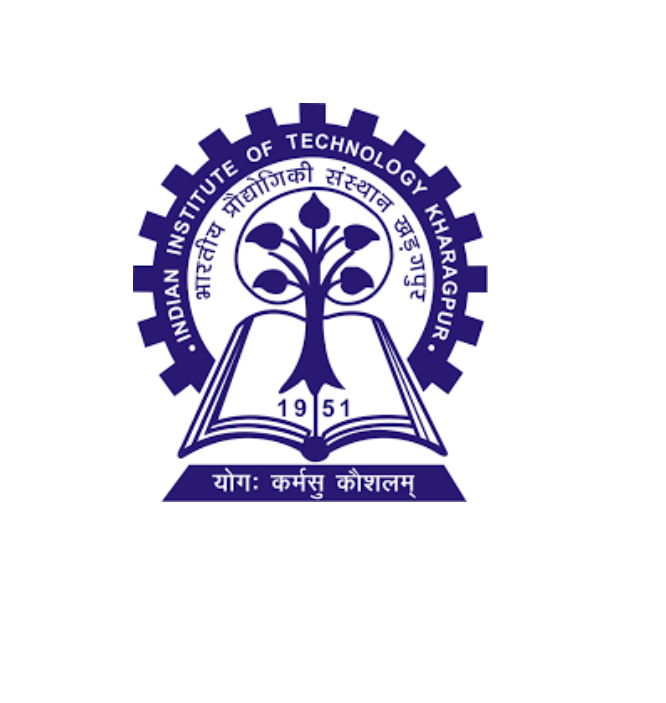
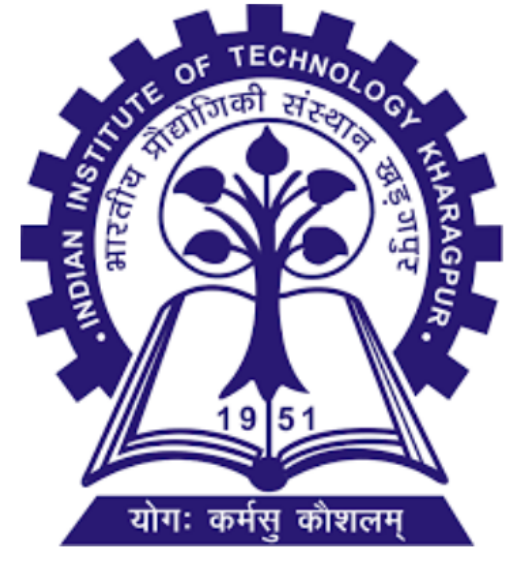
Reduced space

diff --git a/index.html b/index.html
@@ -93,14 +93,16 @@
   <div class="ui vertical stripe segment about">
     <div class="ui middle aligned stackable grid container">
       <div class="row">
-          <div class="eight wide column">
-              <img src="assets/images/koss_kgp.png" class="ui image">
+      	  <div class="one wide column"></div>
+          <div class="six wide column">
+              <img src="assets/images/koss_kgp.png" class="ui medium image">
          </div>
+         <div class="one wide column"></div>
         <div class="eight wide column">
           <h3 class="ui header">Kharagpur Open Source Society</h3>
             <div class="underlineHeader"></div>
             <div class="underlineHeader"></div>
-          <p><br>
+          <p>
 			  <font size=6><i>"Promoting open source culture</i></font><br><br>
 			   <font size=6><i> in and around IIT Kharagpur."</i></font><br><br>
 	</p>

diff --git a/semantic-ui/semantic.css b/semantic-ui/semantic.css
@@ -11654,6 +11654,16 @@ img.ui.bordered.image {
   font-size: 1rem;
 }
 
+.ui.avg.images .image,
+.ui.avg.images img,
+.ui.avg.images svg,
+.ui.avg.image {
+  width: 400px;
+  height: auto;
+  font-size: 1rem;
+}
+
+
 .ui.large.images .image,
 .ui.large.images img,
 .ui.large.images svg,
